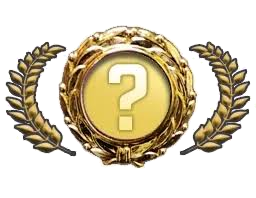
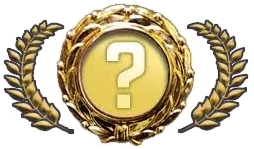
feat: scale up special item visual and balance tape reels by authentic CS2 rarity odds

diff --git a/src/components/case/ReelRoulette.tsx b/src/components/case/ReelRoulette.tsx
@@ -145,13 +145,62 @@ export const ReelRoulette: React.FC<ReelRouletteProps> = ({ caseId, caseSkins, c
     return selected;
   };
 
+  const pickVisualTapeSkin = (skins: SkinEntity[]): SkinEntity => {
+    const buckets: Record<'common' | 'restricted' | 'classified' | 'covert' | 'gold', SkinEntity[]> = {
+      common: [],
+      restricted: [],
+      classified: [],
+      covert: [],
+      gold: [],
+    };
+
+    for (const s of skins) {
+      if (isKnifeOrGlove(s) || s.rarity === 'gold') {
+        buckets.gold.push(s);
+      } else if (s.rarity === 'covert' || s.rarity === 'extraordinary') {
+        buckets.covert.push(s);
+      } else if (s.rarity === 'classified') {
+        buckets.classified.push(s);
+      } else if (s.rarity === 'restricted') {
+        buckets.restricted.push(s);
+      } else {
+        buckets.common.push(s);
+      }
+    }
+
+    // Authentic CS2 reel visual distribution:
+    // Common items dominate (78%), Restricted (16%), Classified (4.5%), Covert (1.2%), Gold (0.3%)
+    const bucketWeights: { bucket: keyof typeof buckets; weight: number }[] = [
+      { bucket: 'common', weight: 78 },
+      { bucket: 'restricted', weight: 16 },
+      { bucket: 'classified', weight: 4.5 },
+      { bucket: 'covert', weight: 1.2 },
+      { bucket: 'gold', weight: 0.3 },
+    ];
+
+    const active = bucketWeights.filter((b) => buckets[b.bucket].length > 0);
+    if (active.length === 0) return skins[Math.floor(Math.random() * skins.length)];
+
+    const totalW = active.reduce((sum, b) => sum + b.weight, 0);
+    let rnd = Math.random() * totalW;
+    for (const b of active) {
+      if (rnd <= b.weight) {
+        const list = buckets[b.bucket];
+        return list[Math.floor(Math.random() * list.length)];
+      }
+      rnd -= b.weight;
+    }
+
+    return skins[0];
+  };
+
   const generateReel = (winner: SkinEntity): SkinEntity[] => {
     const list: SkinEntity[] = [];
     for (let i = 0; i < REEL_SIZE; i++) {
       if (i === WIN_INDEX) {
         list.push(winner);
       } else {
-        list.push(caseSkins[Math.floor(Math.random() * caseSkins.length)]);
+        list.push(pickVisualTapeSkin(caseSkins));
       }
     }
     return list;
@@ -162,9 +211,9 @@ export const ReelRoulette: React.FC<ReelRouletteProps> = ({ caseId, caseSkins, c
     const initial1: SkinEntity[] = [];
     const initial2: SkinEntity[] = [];
     for (let i = 0; i < REEL_SIZE; i++) {
-      initial0.push(caseSkins[i % caseSkins.length]);
-      initial1.push(caseSkins[(i + 3) % caseSkins.length]);
-      initial2.push(caseSkins[(i + 7) % caseSkins.length]);
+      initial0.push(pickVisualTapeSkin(caseSkins));
+      initial1.push(pickVisualTapeSkin(caseSkins));
+      initial2.push(pickVisualTapeSkin(caseSkins));
     }
     setReels([initial0, initial1, initial2]);
   }, [caseSkins]);
@@ -421,13 +470,17 @@ export const ReelRoulette: React.FC<ReelRouletteProps> = ({ caseId, caseSkins, c
                         </span>
                       </div>
 
-                      <div className={`relative ${openCount > 1 ? 'w-24 h-24' : 'w-28 h-28'} my-auto flex items-center justify-center z-10`}>
+                      <div className={`relative ${
+                        showAsSpecial 
+                          ? (openCount > 1 ? 'w-28 h-26' : 'w-36 h-32') 
+                          : (openCount > 1 ? 'w-24 h-24' : 'w-28 h-28')
+                      } my-auto flex items-center justify-center z-10 overflow-visible`}>
                         <img
                           src={displayImage}
                           alt={displayWeapon}
                           referrerPolicy="no-referrer"
                           className={`w-full h-full object-contain filter drop-shadow-md ${
-                            showAsSpecial ? 'drop-shadow-[0_0_12px_rgba(250,204,21,0.6)]' : ''
+                            showAsSpecial ? 'scale-120 drop-shadow-[0_0_20px_rgba(250,204,21,0.65)]' : ''
                           }`}
                         />
                       </div>

diff --git a/src/components/case/CaseSpecialItemCard.tsx b/src/components/case/CaseSpecialItemCard.tsx
@@ -26,12 +26,12 @@ export const CaseSpecialItemCard: React.FC<CaseSpecialItemCardProps> = () => {
       </div>
 
       {/* Central Special Item Image */}
-      <div className="w-full h-28 flex items-center justify-center my-2 relative">
-        <div className="absolute inset-0 bg-radial from-yellow-500/15 to-transparent blur-xl pointer-events-none" />
+      <div className="w-full h-32 flex items-center justify-center my-1 relative">
+        <div className="absolute inset-0 bg-radial from-yellow-500/20 to-transparent blur-2xl pointer-events-none" />
         <img
           src="/images/special_item.png"
           alt="★ Редкий особый предмет"
-          className="w-24 h-24 object-contain group-hover:scale-110 transition-transform duration-300 drop-shadow-[0_0_15px_rgba(250,204,21,0.45)] z-10"
+          className="w-full h-28 sm:h-30 object-contain scale-110 group-hover:scale-120 transition-transform duration-300 drop-shadow-[0_0_20px_rgba(250,204,21,0.55)] z-10"
         />
       </div>
 
